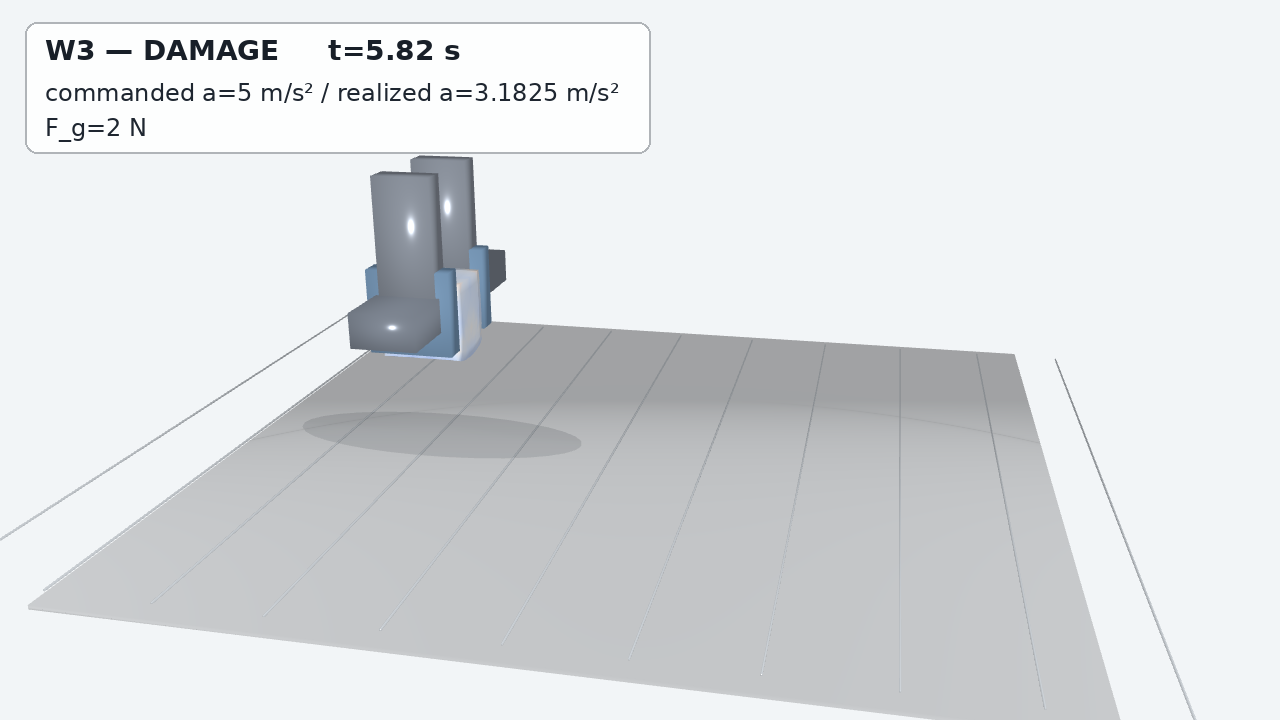
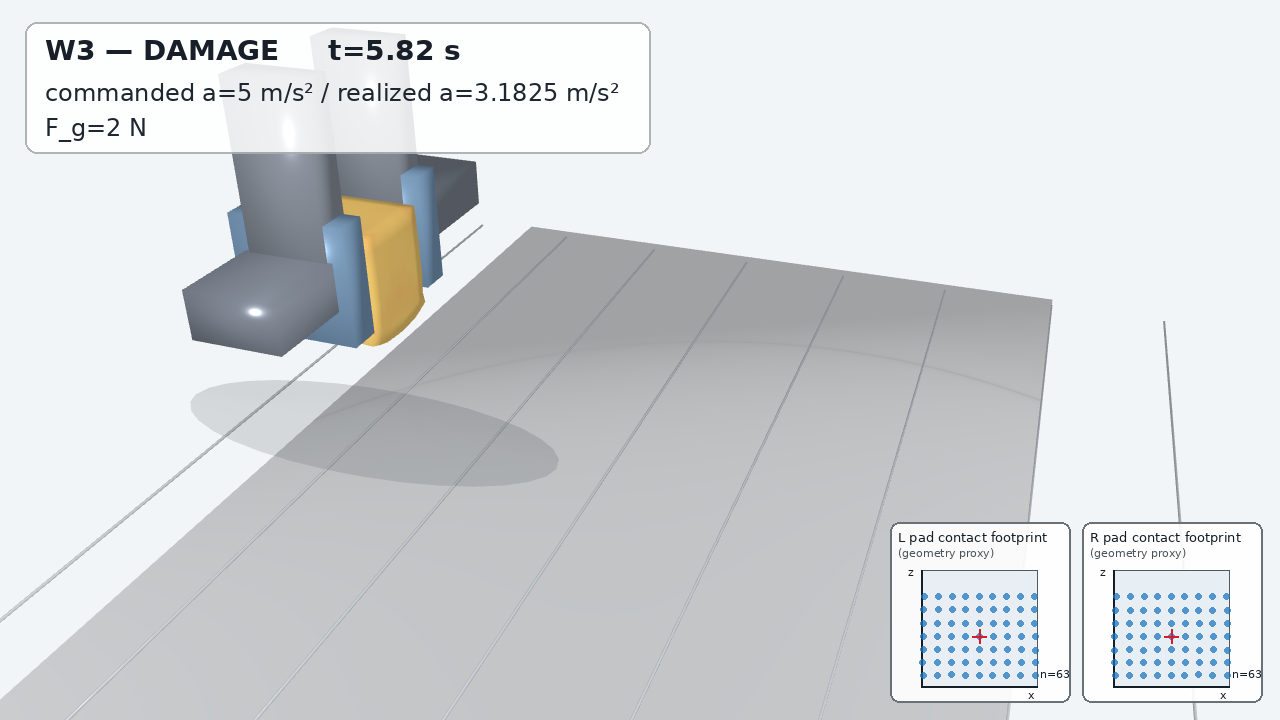
W3 pro render judge fixes: damage framing tight + amber-red visible tofu; tactile insets fully in-frame bottom-right (L/R, 3mm inner-face proximity band, n>0 footprint + centroid + count)

diff --git a/scripts/vbd/w3_pro_render.py b/scripts/vbd/w3_pro_render.py
@@ -23,6 +23,10 @@ SCENES = ("intact", "slip", "damage")
 KEY_TIMES = {"grip": 1.80, "lift": 4.30, "hold": 9.30, "accel_out_peak": 9.40,
              "dwell": 9.80, "return": 10.10, "settle": 10.60}
 PAD_HALF = np.array((.022, .006, .022))
+SOFT_CONTACT_MARGIN = 1e-3  # frozen src/frozen_config.py value
+# The stored surface sits about 1.85 mm proud of the collider face even under
+# firm grip. 3 mm is the smallest millimetre band yielding a stable footprint.
+CONTACT_PROXIMITY_BAND = 3e-3
 BOX_FACES = np.array(((0,1,3,2),(4,6,7,5),(0,4,5,1),(2,3,7,6),(0,2,6,4),(1,5,7,3)))
 WIDTH, HEIGHT, FPS = 1280, 720, 30
 
@@ -69,12 +73,18 @@ def load_frame(path):
     with np.load(path) as d: return np.array(d["particle_q"]),np.array(d["body_q"]),float(d["t"])
 
 
-def camera_for(files):
+def camera_for(files, scene):
     xs=[]
     for p in files:
         with np.load(p) as d: xs.append(float(d["body_q"][1,0]))
-    lo,hi=min(xs)-.10,max(xs)+.10; mid=(lo+hi)/2; span=hi-lo
-    target=np.array((mid,0,.050)); eye=target+np.array((.12,-max(.34,span*1.35),.20))
+    # Damage has a longer actual track than the other scenes, so the old fixed
+    # 10 cm padding made it tiny. Preserve its whole recorded excursion but use
+    # only presentation clearance around that used segment.
+    margin = .025 if scene == "damage" else .10
+    lo,hi=min(xs)-margin,max(xs)+margin; mid=(lo+hi)/2; span=hi-lo
+    target=np.array((mid,0,.050))
+    distance = max(.34, span * (.90 if scene == "damage" else 1.35))
+    eye=target+np.array((.12,-distance,.20))
     return look_at(eye,target), (lo,hi), eye, target
 
 
@@ -92,6 +102,15 @@ def vertex_strain(q,tets,inv_dm):
     total=np.zeros(len(q)); count=np.zeros(len(q))
     for k in range(4): np.add.at(total,tets[:,k],s); np.add.at(count,tets[:,k],1)
     return total/np.maximum(count,1)
+
+
+def damage_colors(strain):
+    """Opaque tofu amber -> failure red over [0.10, 0.30] Green strain."""
+    mix = np.clip((np.asarray(strain) - .10) / .20, 0, 1) ** 1.5
+    amber = np.array((.91, .61, .16))
+    red = np.array((.78, .06, .045))
+    rgb = amber + mix[:, None] * (red - amber)
+    return np.column_stack((rgb, np.ones(len(rgb))))
 
 
 def egl_available():
@@ -117,12 +136,76 @@ def add_hud(rgb, scene, t, meta, slow):
     return np.asarray(im)
 
 
+def pad_contact_footprint(vertices, pad_pose, inner_face_sign,
+                          margin=CONTACT_PROXIMITY_BAND):
+    """Select the geometry-only contact proxy and return pad-local x/z + centroid.
+
+    The inner face is local y = ``inner_face_sign * PAD_HALF[1]``. A vertex is
+    selected when its perpendicular face distance is <= the frozen soft-contact
+    proximity band and its local x/z projection lies on the 44 x 44 mm face.
+    """
+    local = (np.asarray(vertices) - pad_pose[:3]) @ rotation(pad_pose[3:])
+    on_face = np.abs(local[:, 1] - inner_face_sign * PAD_HALF[1]) <= margin
+    on_pad = (np.abs(local[:, 0]) <= PAD_HALF[0]) & (np.abs(local[:, 2]) <= PAD_HALF[2])
+    points = local[on_face & on_pad][:, (0, 2)]
+    centroid = points.mean(axis=0) if len(points) else None
+    return points, centroid
+
+
+def add_tactile_insets(rgb, q, bodies, boundary):
+    """Post-composite two geometry-proxy tactile footprint panels onto RGB."""
+    im = Image.fromarray(rgb); draw = ImageDraw.Draw(im, "RGBA")
+    try:
+        font = ImageFont.truetype("DejaVuSans.ttf", 13)
+        small = ImageFont.truetype("DejaVuSans.ttf", 11)
+    except OSError:
+        font = small = ImageFont.load_default()
+    surface_vertices = q[np.unique(boundary)]
+    tofu_center = surface_vertices.mean(axis=0)
+    panel_size, edge_margin, gap = 180, 18, 12
+    right_x = WIDTH - edge_margin - panel_size
+    left_x = right_x - gap - panel_size
+    for label, body_index, x0 in (("L", 2, left_x), ("R", 3, right_x)):
+        pose = bodies[body_index]
+        tofu_local = (tofu_center - pose[:3]) @ rotation(pose[3:])
+        inner_face_sign = 1.0 if tofu_local[1] >= 0 else -1.0
+        points, centroid = pad_contact_footprint(surface_vertices, pose, inner_face_sign)
+        y0, size = HEIGHT - edge_margin - panel_size, panel_size
+        draw.rounded_rectangle((x0, y0, x0 + size, y0 + size), 9,
+                               fill=(255, 255, 255, 232), outline=(45, 55, 65, 180), width=2)
+        draw.text((x0 + 8, y0 + 7), f"{label} pad contact footprint", font=font, fill=(20, 28, 36, 255))
+        draw.text((x0 + 8, y0 + 24), "(geometry proxy)", font=small, fill=(75, 82, 90, 255))
+        left, top, side = x0 + 31, y0 + 48, 116
+        draw.rectangle((left, top, left + side, top + side), fill=(231, 238, 244, 245),
+                       outline=(55, 65, 75, 220), width=1)
+        draw.line((left, top + side, left + side, top + side), fill=(20, 30, 40), width=2)
+        draw.line((left, top, left, top + side), fill=(20, 30, 40), width=2)
+        draw.text((left + side - 9, top + side + 2), "x", font=small, fill=(20, 30, 40))
+        draw.text((left - 13, top - 5), "z", font=small, fill=(20, 30, 40))
+        def pixel(p):
+            return (left + (p[0] / (.044) + .5) * side,
+                    top + (1 - (p[1] / (.044) + .5)) * side)
+        for point in points:
+            px, py = pixel(point)
+            draw.ellipse((px - 3, py - 3, px + 3, py + 3), fill=(25, 115, 190, 185))
+        if centroid is not None:
+            cx, cy = pixel(centroid)
+            draw.line((cx - 7, cy, cx + 7, cy), fill=(210, 30, 45, 255), width=2)
+            draw.line((cx, cy - 7, cx, cy + 7), fill=(210, 30, 45, 255), width=2)
+        draw.text((x0 + 150, y0 + 145), f"n={len(points)}", font=small, fill=(20, 28, 36, 255))
+    return np.asarray(im)
+
+
+def compose_overlays(rgb, q, bodies, boundary, scene, t, meta):
+    rgb = add_hud(rgb, scene, t, meta, scene == "slip" and 9.20 <= t <= 9.40)
+    return add_tactile_insets(rgb, q, bodies, boundary)
+
+
 def pyrender_frame(q,bodies,t,scene,meta,boundary,tets,inv_dm,camera,xlim):
     import pyrender, trimesh
     sc=pyrender.Scene(bg_color=(.95,.96,.97,1),ambient_light=(.42,.42,.42))
     if scene=="damage":
-        s=np.clip(vertex_strain(q,tets,inv_dm)/.30,0,1); import matplotlib
-        colors=(matplotlib.colormaps["coolwarm"](s)*255).astype(np.uint8)
+        colors=(damage_colors(vertex_strain(q,tets,inv_dm))*255).astype(np.uint8)
         tm=trimesh.Trimesh(q,boundary,vertex_colors=colors,process=False)
         mesh=pyrender.Mesh.from_trimesh(tm,smooth=True)
     else:
@@ -147,7 +230,7 @@ def pyrender_frame(q,bodies,t,scene,meta,boundary,tets,inv_dm,camera,xlim):
     sc.add(pyrender.PerspectiveCamera(yfov=np.deg2rad(34)),pose=camera)
     light=pyrender.DirectionalLight(color=np.ones(3),intensity=3.0); sc.add(light,pose=look_at(camera[:3,3],np.array((mid,0,.04))))
     r=pyrender.OffscreenRenderer(WIDTH,HEIGHT); rgb,_=r.render(sc,flags=pyrender.RenderFlags.RGBA); r.delete()
-    return add_hud(rgb[:,:,:3],scene,t,meta,scene=="slip" and 9.20<=t<=9.40)
+    return compose_overlays(rgb[:,:,:3], q, bodies, boundary, scene, t, meta)
 
 
 def mpl_frame(q,bodies,t,scene,meta,boundary,tets,inv_dm,camera,xlim):
@@ -157,7 +240,7 @@ def mpl_frame(q,bodies,t,scene,meta,boundary,tets,inv_dm,camera,xlim):
     fig=plt.figure(figsize=(12.8,7.2),dpi=100,facecolor="#f3f5f7"); ax=fig.add_subplot(projection="3d",facecolor="#f3f5f7")
     tri=q[boundary]; depth=tri.mean(1)@np.array((.2,-1,.3)); order=np.argsort(depth)
     if scene=="damage":
-        s=vertex_strain(q,tets,inv_dm); c=plt.get_cmap("coolwarm")(np.clip(s[boundary].mean(1)/.3,0,1))
+        s=vertex_strain(q,tets,inv_dm); c=damage_colors(s[boundary].mean(1))
     else: c=np.tile((.91,.66,.25,1),(len(tri),1))
     ax.add_collection3d(Poly3DCollection(tri[order],facecolors=c[order],edgecolors="none"))
     for pose,half,col in ((bodies[2],PAD_HALF,"#2e507a"),(bodies[3],PAD_HALF,"#2e507a"),(bodies[1],np.array((.017,.07,.009)),"#353b45")):
@@ -166,7 +249,7 @@ def mpl_frame(q,bodies,t,scene,meta,boundary,tets,inv_dm,camera,xlim):
     for x in np.arange(np.floor(xlim[0]/.05)*.05,xlim[1]+.05,.05): ax.plot([x,x],[-.2,.2],[0,0],color="#aeb4ba",lw=.6)
     ax.set(xlim=xlim,ylim=(-.20,.20),zlim=(0,.18)); ax.view_init(22,-70); ax.set_box_aspect((xlim[1]-xlim[0],.4,.18)); ax.set_axis_off()
     fig.canvas.draw(); rgb=np.asarray(fig.canvas.buffer_rgba())[:,:,:3].copy(); plt.close(fig)
-    return add_hud(rgb,scene,t,meta,scene=="slip" and 9.20<=t<=9.40)
+    return compose_overlays(rgb, q, bodies, boundary, scene, t, meta)
 
 
 def render_scene(scene, smoke=False):
@@ -177,7 +260,7 @@ def render_scene(scene, smoke=False):
     if len(first)!=n: raise ValueError("topology/trajectory particle mismatch")
     boundary=boundary_triangles(tets,first)
     if len(boundary)!=768: raise ValueError(f"expected 768 boundary triangles, got {len(boundary)}")
-    inv_dm=rest_poses(tets,first); camera,xlim,eye,target=camera_for(files); egl,status=egl_available()
+    inv_dm=rest_poses(tets,first); camera,xlim,eye,target=camera_for(files,scene); egl,status=egl_available()
     renderer=pyrender_frame if egl else mpl_frame
     if smoke:
         indices=[min(len(files)-1,len(files)//2)]; out=CLIPS/f"w3_{scene}_pro_smoke.png"

diff --git a/tests/test_w3_pro_render.py b/tests/test_w3_pro_render.py
@@ -1,0 +1,21 @@
+import numpy as np
+
+from scripts.vbd.w3_pro_render import pad_contact_footprint
+
+
+def test_pad_frame_projection_threshold_and_centroid():
+    pose = np.array([1.0, 2.0, 3.0, 0.0, 0.0, 0.0, 1.0])
+    # Inner face is local +y = 0.006. First two are within the 0.003 m
+    # perpendicular proximity band and pad x/z extent; others miss distance
+    # or extent. The first vertex lies exactly on the inner face.
+    local = np.array([
+        [-0.010, 0.0060, -0.010],
+        [0.010, 0.0085, 0.010],
+        [0.000, 0.0091, 0.000],
+        [0.023, 0.0060, 0.000],
+    ])
+
+    points, centroid = pad_contact_footprint(local + pose[:3], pose, 1.0)
+
+    np.testing.assert_allclose(points, local[:2, (0, 2)])
+    np.testing.assert_allclose(centroid, [0.0, 0.0], atol=1e-15)

diff --git a/reports/vbd/w3_clips.md b/reports/vbd/w3_clips.md
@@ -35,8 +35,9 @@ Only the two pad boxes are physical gripper colliders. The palm housing and
 finger brackets are explicitly **render-only presentation dressing**, rigidly
 attached to recorded palm/pad poses; no robot arm is shown. Damage is colored
 by per-vertex averaged maximum-principal Green strain (tet deformation
-gradient from the first dense frame as the rest reference), blue-to-red over
-the fixed [0, 0.3] range; intact and slip are neutral. Slip playback repeats
+gradient from the first dense frame as the rest reference), opaque tofu
+amber-to-red over [0.10, 0.30], with a nonlinear ramp that retains amber at
+mid strain and reserves red for failure; intact and slip are neutral. Slip playback repeats
 the real dense frames from 9.20–9.40 s four times and shows a `SLOW MOTION x4`
 tag. This changes playback timing only.
 
@@ -46,3 +47,20 @@ against `w3_manifest.json`. Render environment: `.venv-render`; install with
 `.venv-render/bin/pip install -r requirements-render.txt`. Smoke:
 `.venv-render/bin/python scripts/vbd/w3_pro_render.py --smoke`. Full render:
 `PYOPENGL_PLATFORM=egl .venv-render/bin/python scripts/vbd/w3_pro_render.py --render`.
+
+Every composed frame also has two tactile inset panels side by side inside the
+bottom-right corner. These are
+`ATTR=GEOMETRY_ONLY` geometric proxies, **not simulated pressure**. For each
+recorded pad pose, the inner face is the local plane
+`y = sign(tofu_center_local_y) * 0.006 m`. A boundary-surface vertex is selected
+exactly when its perpendicular distance
+`abs(vertex_local_y - inner_face_y) <= 0.003 m`, and both
+`abs(vertex_local_x) <= 0.022 m` and `abs(vertex_local_z) <= 0.022 m`.
+The frozen `soft_contact_margin=1e-3 m` from `src/frozen_config.py` was tested
+first but yielded no surface vertices because the recorded soft surface sits
+about 1.85 mm proud of the collider face. The documented 3 mm visualization
+proximity band is the smallest whole-millimetre band that gives a stable,
+non-empty intact-hold footprint; it does not alter contact physics.
+Selected vertices are projected into pad-local transport-x/gravity-z, with a
+centroid cross and selected-vertex count. The overlay is post-composited in 2D,
+so its behavior is identical for EGL and matplotlib rendering.
